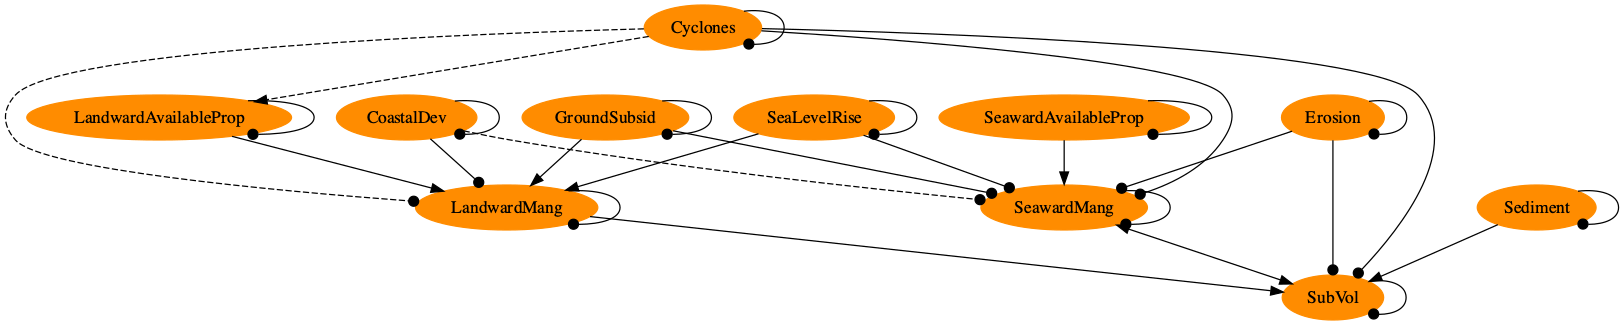
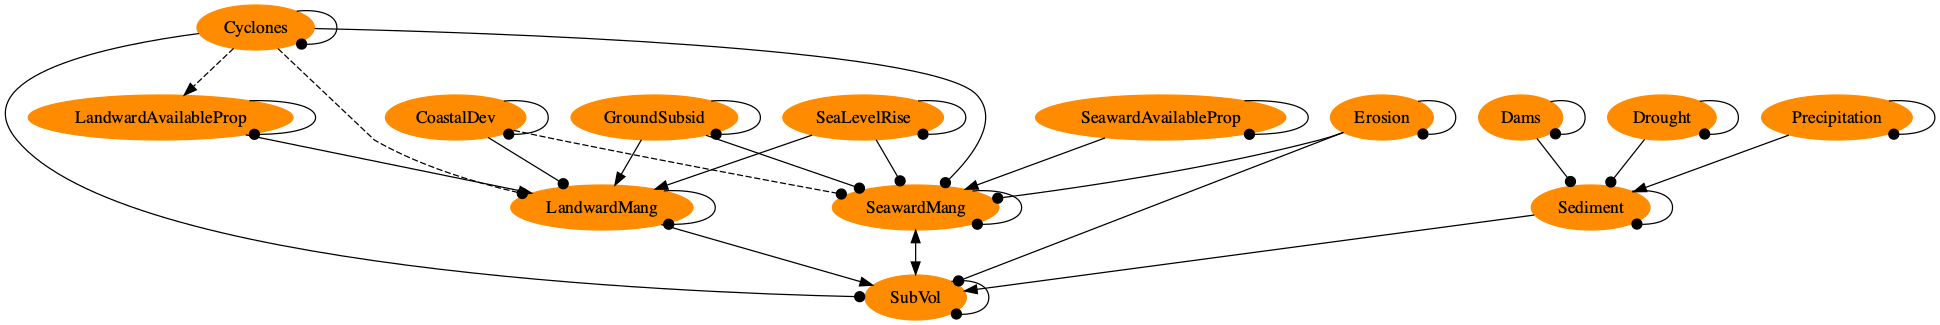
update models and readme

diff --git a/README.md b/README.md
@@ -8,12 +8,10 @@ o	Although Ward (2021) says symbolic analysis is powerful for identifying feedba
 
 Step 1
 - add in an alternative model structure for coastal squeeze - mangroves can't migrate landward with SLR - edge between SLR and landward mangroves removed
-- add in extreme rainfall - what do do - include as variables in model or directly perturb?
 - remove density dependence from sea level rise
-- add in scenario of increased sediment - see what happens
-- alternative model paramaterisation where added sediment means mangroves prograde seaward
--   but actually, I think model results make sense. Seaward mangrove may increase or decrease with SLR and high sediment supply
-- add management scenarios
+- see what co-authors think about SLR high sediment supply as seaward mangroves can either increase or decrease, but if we increase sediment under SLR, still could increase or decrease - but higher probability of gain
+- alternative is to constrain paramaterisation of high sed supply even more, and decrease infludence of SLR - put to coauthors
+
 Step 2: finish global predictions
 - process spatial data
 - Decide whether to get mangrove loss/gain to validate
